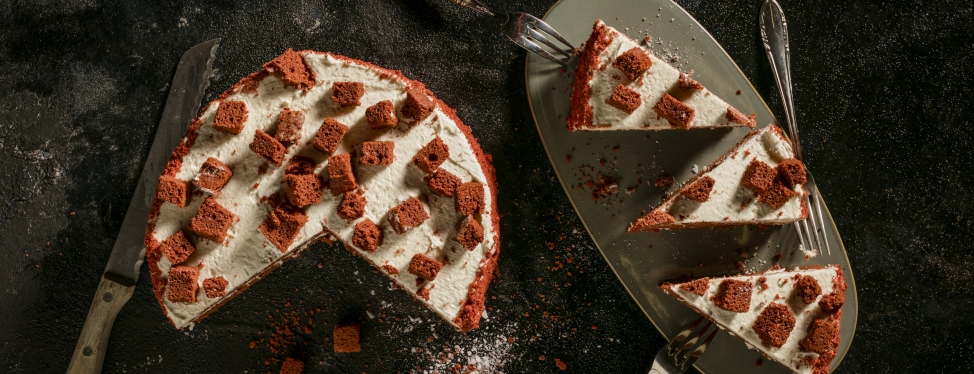
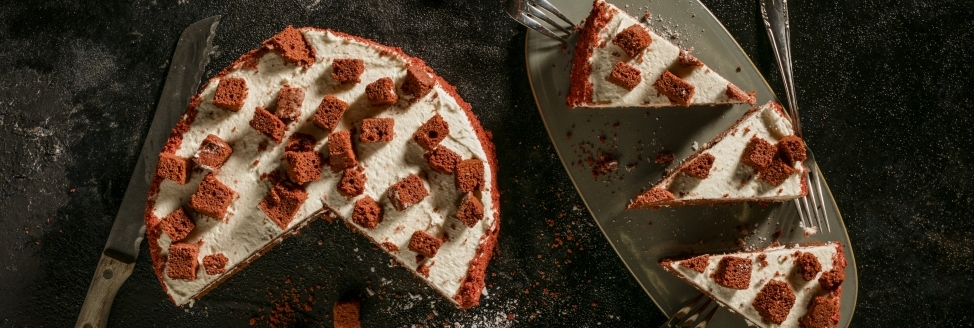
Updated cases, fixed images

diff --git a/src/pages/cases.js b/src/pages/cases.js
@@ -4,6 +4,7 @@ import Helmet from 'react-helmet'
 import Layout from '../components/layout'
 import get from 'lodash/get'
 import BannerLanding from "../components/BannerLanding";
+import Img from "gatsby-image"
 
 class CasesIndex extends React.Component {
     render() {
@@ -31,11 +32,13 @@ class CasesIndex extends React.Component {
                                     {cases.map(({ node }) => {
                                         const title = get(node, 'frontmatter.title') || node.fields.slug
                                         return (
-                                            <div key={node.fields.slug} className="col-md-2 case">
+                                            <div key={node.fields.slug} className="col-4">
                                                 <h3>
                                                     <Link style={{ boxShadow: 'none' }} to={node.frontmatter.permalink}>
                                                         {title}
-                                                        <span className="image case-tile"><img src={node.frontmatter.image} alt="" /></span>
+                                                        <div>
+                                                            <Img fluid={node.frontmatter.image.childImageSharp.fluid} alt="" />
+                                                        </div>
                                                     </Link>
                                                 </h3>
 
@@ -79,7 +82,13 @@ export const pageQuery = graphql`
           frontmatter {
             title
             permalink
-            image
+            image {
+              childImageSharp {
+                fluid(maxHeight: 400) {
+                  ...GatsbyImageSharpFluid_withWebp
+                }
+              }
+            }
           }
         }
       }

diff --git a/src/templates/case.js b/src/templates/case.js
@@ -25,7 +25,7 @@ class CaseTemplate extends React.Component {
                                 <h1>{post.frontmatter.title}</h1>
                             </header>
                             <div className="box alt">
-                                <span className="image main"><img src={post.frontmatter.image} alt="" /></span>
+                                <span className="image main"><Img fluid={post.frontmatter.image.childImageSharp.fluid} alt="" /></span>
                                 <div dangerouslySetInnerHTML={{ __html: post.html }} />
                             </div>
                         </div>
@@ -51,7 +51,13 @@ export const pageQuery = graphql`
       html
       frontmatter {
         title
-        image
+        image {
+          childImageSharp {
+            fluid(maxWidth: 800) {
+              ...GatsbyImageSharpFluid_withWebp
+            }
+          }
+        }
       }
     }
   }

diff --git a/gatsby-config.js b/gatsby-config.js
@@ -17,6 +17,7 @@ module.exports = {
     },
     'gatsby-plugin-sass',
     'gatsby-plugin-offline',
+    'gatsby-remark-images',
     `gatsby-transformer-csv`,
     {
         resolve: `gatsby-source-filesystem`,

diff --git a/src/collections/cases/2020-01-19-dutchlabelshop.md b/src/collections/cases/2020-01-19-dutchlabelshop.md
@@ -2,10 +2,10 @@
 type: case
 title:  "Case: Dutchlabelshop"
 intro: ""
-image: ../assets/images/cases/dutch-label-shop/custom-labels.jpg
+image: ../../assets/images/cases/dutch-label-shop/custom-labels.jpg
 date:   2019-12-01 10:13:37 +0100
 categories: magento
-permalink: /cases/dutch-label-shop/
+permalink: /cases/dutchlabelshop/
 author: Peter Jaap Blaakmeer
 tags: magento2 laravel prismic fractal
 ---

diff --git a/src/collections/cases/2020-01-20-limburgia-vlaai.md b/src/collections/cases/2020-01-20-limburgia-vlaai.md
@@ -2,7 +2,7 @@
 type: case
 title:  "Case: Limburgia"
 intro: ""
-image: ../assets/images/cases/limburgia/banner-limburgia.jpg
+image: "../../assets/images/cases/limburgia/banner-limburgia.jpg"
 date:   2020-01-20 10:13:37 +0100
 categories: magento
 permalink: /cases/limburgia/
